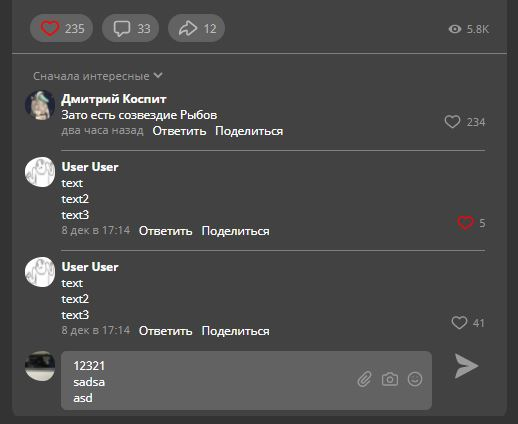
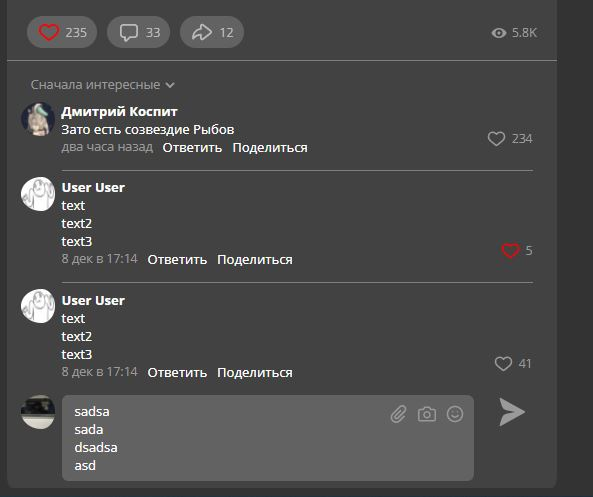
[04-html-css] textarea attachments fix

diff --git a/04-html-css/index.html b/04-html-css/index.html
@@ -54,7 +54,8 @@
                         <svg height="24" viewBox="0 0 24 24" width="24" xmlns="http://www.w3.org/2000/svg" fill="red">
                             <g fill="none" fill-rule="evenodd">
                                 <path d="M0 0h24v24H0z"></path>
-                                <path class="like-color" d="M16 4a5.95 5.95 0 00-3.89 1.7l-.12.11-.12-.11A5.96 5.96 0 007.73 4 5.73 5.73 0 002 9.72c0 3.08 1.13 4.55 6.18 8.54l2.69 2.1c.66.52 1.6.52 2.26 0l2.36-1.84.94-.74c4.53-3.64 5.57-5.1 5.57-8.06A5.73 5.73 0 0016.27 4zm.27 1.8a3.93 3.93 0 013.93 3.92v.3c-.08 2.15-1.07 3.33-5.51 6.84l-2.67 2.08a.04.04 0 01-.04 0L9.6 17.1l-.87-.7C4.6 13.1 3.8 11.98 3.8 9.73A3.93 3.93 0 017.73 5.8c1.34 0 2.51.62 3.57 1.92a.9.9 0 001.4-.01c1.04-1.3 2.2-1.91 3.57-1.91z"
+                                <path class="like-color"
+                                      d="M16 4a5.95 5.95 0 00-3.89 1.7l-.12.11-.12-.11A5.96 5.96 0 007.73 4 5.73 5.73 0 002 9.72c0 3.08 1.13 4.55 6.18 8.54l2.69 2.1c.66.52 1.6.52 2.26 0l2.36-1.84.94-.74c4.53-3.64 5.57-5.1 5.57-8.06A5.73 5.73 0 0016.27 4zm.27 1.8a3.93 3.93 0 013.93 3.92v.3c-.08 2.15-1.07 3.33-5.51 6.84l-2.67 2.08a.04.04 0 01-.04 0L9.6 17.1l-.87-.7C4.6 13.1 3.8 11.98 3.8 9.73A3.93 3.93 0 017.73 5.8c1.34 0 2.51.62 3.57 1.92a.9.9 0 001.4-.01c1.04-1.3 2.2-1.91 3.57-1.91z"
                                       fill="currentColor" fill-rule="nonzero"></path>
                             </g>
                         </svg>
@@ -130,7 +131,8 @@
                         <span class="post__likes" aria-hidden="true">
                             <svg height="21" width="21" viewBox="0 0 24 24" xmlns="http://www.w3.org/2000/svg">
                                 <g>
-                                    <path class="like-color" d="M16 4a5.95 5.95 0 00-3.89 1.7l-.12.11-.12-.11A5.96 5.96 0 007.73 4 5.73 5.73 0 002 9.72c0 3.08 1.13 4.55 6.18 8.54l2.69 2.1c.66.52 1.6.52 2.26 0l2.36-1.84.94-.74c4.53-3.64 5.57-5.1 5.57-8.06A5.73 5.73 0 0016.27 4zm.27 1.8a3.93 3.93 0 013.93 3.92v.3c-.08 2.15-1.07 3.33-5.51 6.84l-2.67 2.08a.04.04 0 01-.04 0L9.6 17.1l-.87-.7C4.6 13.1 3.8 11.98 3.8 9.73A3.93 3.93 0 017.73 5.8c1.34 0 2.51.62 3.57 1.92a.9.9 0 001.4-.01c1.04-1.3 2.2-1.91 3.57-1.91z"
+                                    <path class="like-color"
+                                          d="M16 4a5.95 5.95 0 00-3.89 1.7l-.12.11-.12-.11A5.96 5.96 0 007.73 4 5.73 5.73 0 002 9.72c0 3.08 1.13 4.55 6.18 8.54l2.69 2.1c.66.52 1.6.52 2.26 0l2.36-1.84.94-.74c4.53-3.64 5.57-5.1 5.57-8.06A5.73 5.73 0 0016.27 4zm.27 1.8a3.93 3.93 0 013.93 3.92v.3c-.08 2.15-1.07 3.33-5.51 6.84l-2.67 2.08a.04.04 0 01-.04 0L9.6 17.1l-.87-.7C4.6 13.1 3.8 11.98 3.8 9.73A3.93 3.93 0 017.73 5.8c1.34 0 2.51.62 3.57 1.92a.9.9 0 001.4-.01c1.04-1.3 2.2-1.91 3.57-1.91z"
                                           fill="currentColor" fill-rule="evenodd"></path>
                                 </g>
                             </svg>
@@ -161,7 +163,8 @@
                         <span class="post__likes" aria-hidden="true">
                             <svg height="21" width="21" viewBox="0 0 24 24" xmlns="http://www.w3.org/2000/svg">
                                 <g>
-                                    <path class="like-color" d="M16 4a5.95 5.95 0 00-3.89 1.7l-.12.11-.12-.11A5.96 5.96 0 007.73 4 5.73 5.73 0 002 9.72c0 3.08 1.13 4.55 6.18 8.54l2.69 2.1c.66.52 1.6.52 2.26 0l2.36-1.84.94-.74c4.53-3.64 5.57-5.1 5.57-8.06A5.73 5.73 0 0016.27 4zm.27 1.8a3.93 3.93 0 013.93 3.92v.3c-.08 2.15-1.07 3.33-5.51 6.84l-2.67 2.08a.04.04 0 01-.04 0L9.6 17.1l-.87-.7C4.6 13.1 3.8 11.98 3.8 9.73A3.93 3.93 0 017.73 5.8c1.34 0 2.51.62 3.57 1.92a.9.9 0 001.4-.01c1.04-1.3 2.2-1.91 3.57-1.91z"
+                                    <path class="like-color"
+                                          d="M16 4a5.95 5.95 0 00-3.89 1.7l-.12.11-.12-.11A5.96 5.96 0 007.73 4 5.73 5.73 0 002 9.72c0 3.08 1.13 4.55 6.18 8.54l2.69 2.1c.66.52 1.6.52 2.26 0l2.36-1.84.94-.74c4.53-3.64 5.57-5.1 5.57-8.06A5.73 5.73 0 0016.27 4zm.27 1.8a3.93 3.93 0 013.93 3.92v.3c-.08 2.15-1.07 3.33-5.51 6.84l-2.67 2.08a.04.04 0 01-.04 0L9.6 17.1l-.87-.7C4.6 13.1 3.8 11.98 3.8 9.73A3.93 3.93 0 017.73 5.8c1.34 0 2.51.62 3.57 1.92a.9.9 0 001.4-.01c1.04-1.3 2.2-1.91 3.57-1.91z"
                                           fill="currentColor" fill-rule="evenodd"></path>
                                 </g>
                             </svg>
@@ -191,7 +194,8 @@
                         <span class="post__likes" aria-hidden="true">
                             <svg height="21" width="21" viewBox="0 0 24 24" xmlns="http://www.w3.org/2000/svg">
                                 <g>
-                                    <path class="like-color" d="M16 4a5.95 5.95 0 00-3.89 1.7l-.12.11-.12-.11A5.96 5.96 0 007.73 4 5.73 5.73 0 002 9.72c0 3.08 1.13 4.55 6.18 8.54l2.69 2.1c.66.52 1.6.52 2.26 0l2.36-1.84.94-.74c4.53-3.64 5.57-5.1 5.57-8.06A5.73 5.73 0 0016.27 4zm.27 1.8a3.93 3.93 0 013.93 3.92v.3c-.08 2.15-1.07 3.33-5.51 6.84l-2.67 2.08a.04.04 0 01-.04 0L9.6 17.1l-.87-.7C4.6 13.1 3.8 11.98 3.8 9.73A3.93 3.93 0 017.73 5.8c1.34 0 2.51.62 3.57 1.92a.9.9 0 001.4-.01c1.04-1.3 2.2-1.91 3.57-1.91z"
+                                    <path class="like-color"
+                                          d="M16 4a5.95 5.95 0 00-3.89 1.7l-.12.11-.12-.11A5.96 5.96 0 007.73 4 5.73 5.73 0 002 9.72c0 3.08 1.13 4.55 6.18 8.54l2.69 2.1c.66.52 1.6.52 2.26 0l2.36-1.84.94-.74c4.53-3.64 5.57-5.1 5.57-8.06A5.73 5.73 0 0016.27 4zm.27 1.8a3.93 3.93 0 013.93 3.92v.3c-.08 2.15-1.07 3.33-5.51 6.84l-2.67 2.08a.04.04 0 01-.04 0L9.6 17.1l-.87-.7C4.6 13.1 3.8 11.98 3.8 9.73A3.93 3.93 0 017.73 5.8c1.34 0 2.51.62 3.57 1.92a.9.9 0 001.4-.01c1.04-1.3 2.2-1.91 3.57-1.91z"
                                           fill="currentColor" fill-rule="evenodd"></path>
                                 </g>
                             </svg>

diff --git a/04-html-css/style.css b/04-html-css/style.css
@@ -234,6 +234,7 @@ svg {
     border-top: 1.5px solid grey;
     padding-top: 7px;
 }
+
 .comment:not(:first-child) .comment__img {
     padding-top: 7px;
 }
@@ -256,9 +257,12 @@ svg {
 .comment-create__text-field {
     border-radius: 7px;
     display: flex;
-    align-items: center;
     width: 100%;
     background-color: var(--color-buttons-back);
+}
+
+.textarea-attachments {
+    padding-top: 10px;
 }
 
 #comment-create__comment-text {
